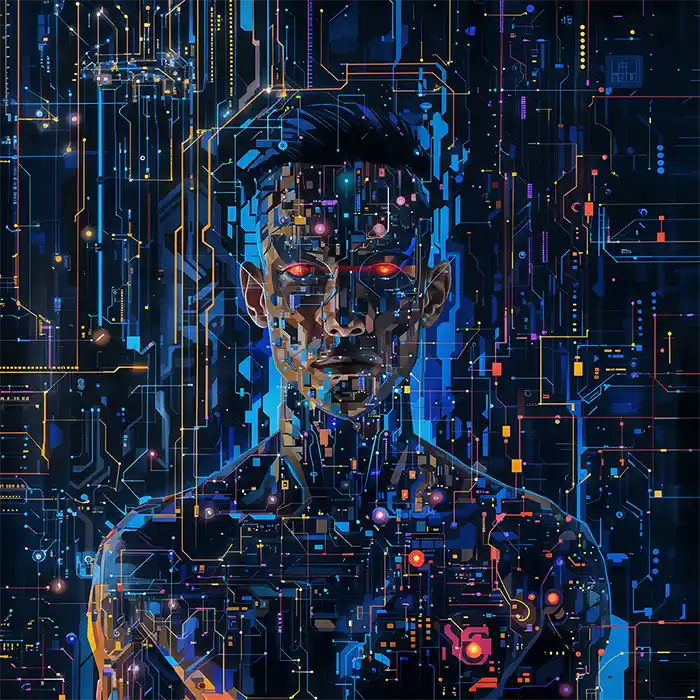
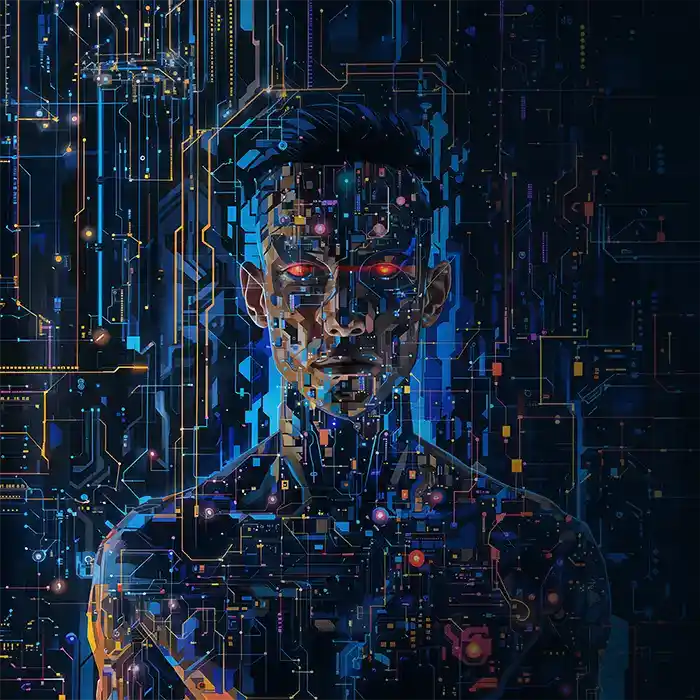
color

diff --git a/styles/styles.css b/styles/styles.css
@@ -10,7 +10,7 @@
 }
 
 :root {
-  --color-primary: #000000;
+  --color-primary: #030d18;
   --color-secondary: #1dcaff;
   --color-white: #FFFFFF;
   --color-black: #000;
@@ -27,7 +27,7 @@
 }
 
 .light-mode {
-  --color-primary: #000000;
+  --color-primary: #030d18;
   --color-secondary: #b700ff;
   --color-white: #ffffff;
   --color-black: #ffffff;
